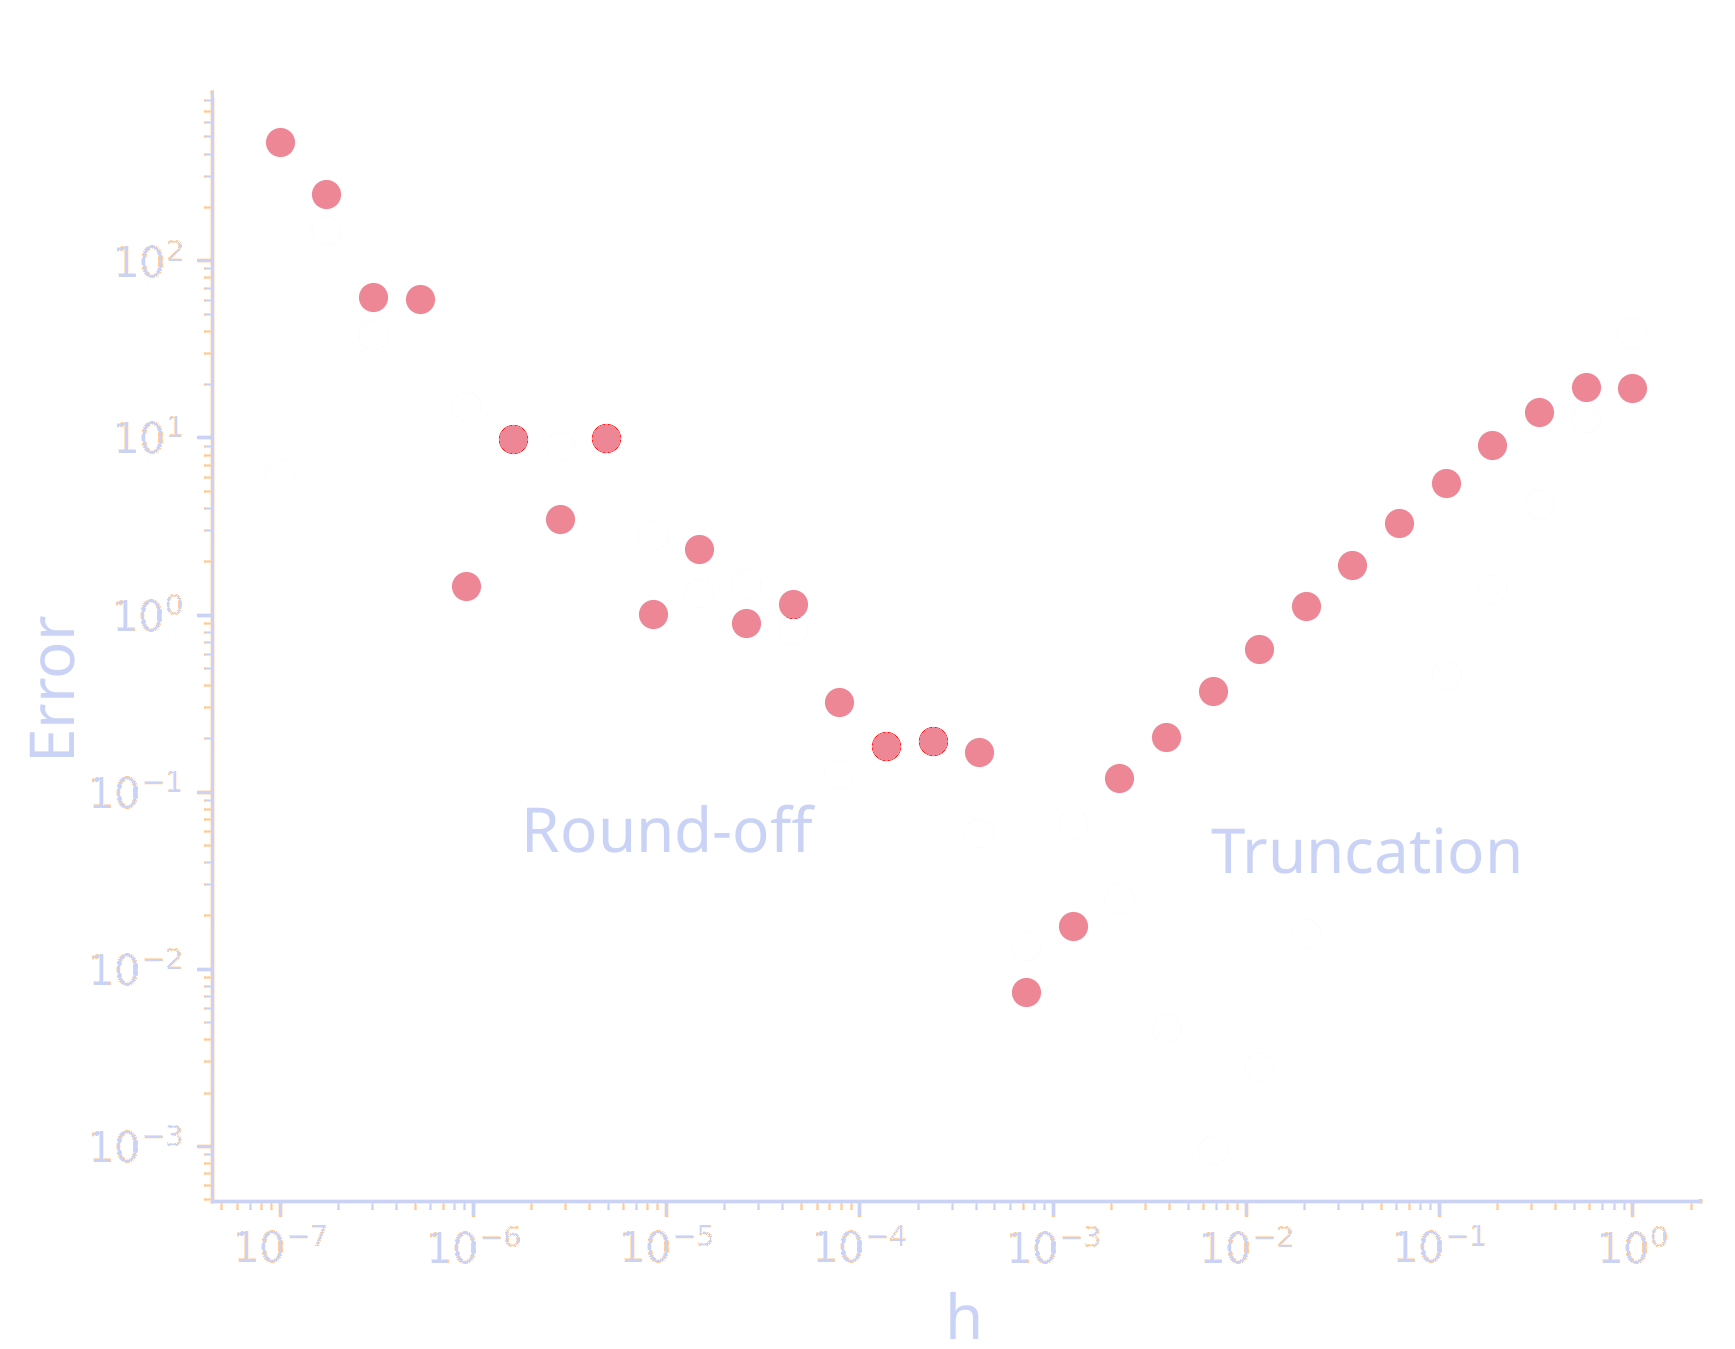
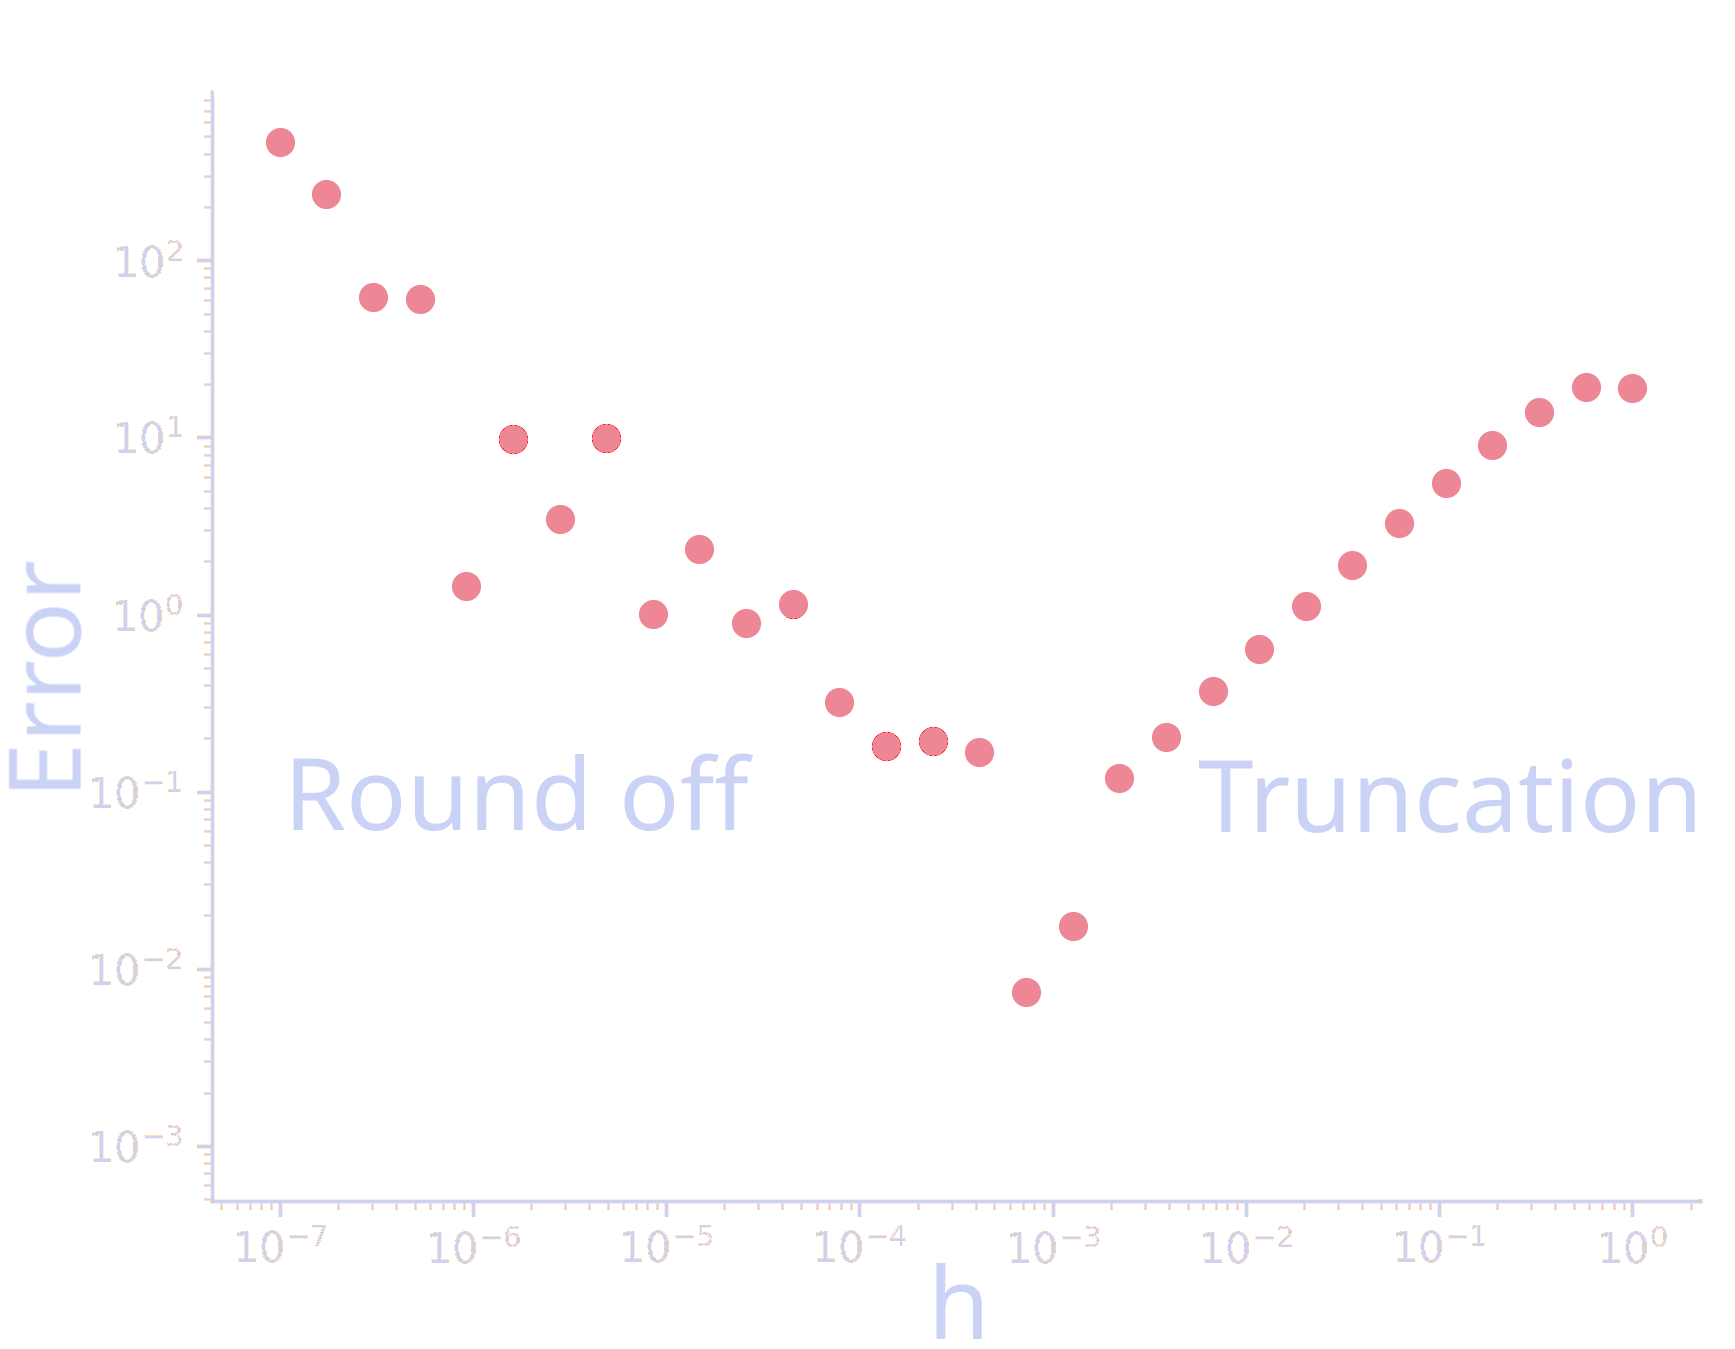
improve images for numerical method

diff --git a/slides.md b/slides.md
@@ -1463,8 +1463,6 @@ for tensors: #h(0.5em) $f: RR^n -> RR^m, #h(0.5em) frac(diff f_j, diff x_i) = fr
 - we could have **millions** of parameters
 - => won't work
 
-TODO: add picture of derivative + error
-
 ---
 
 END
